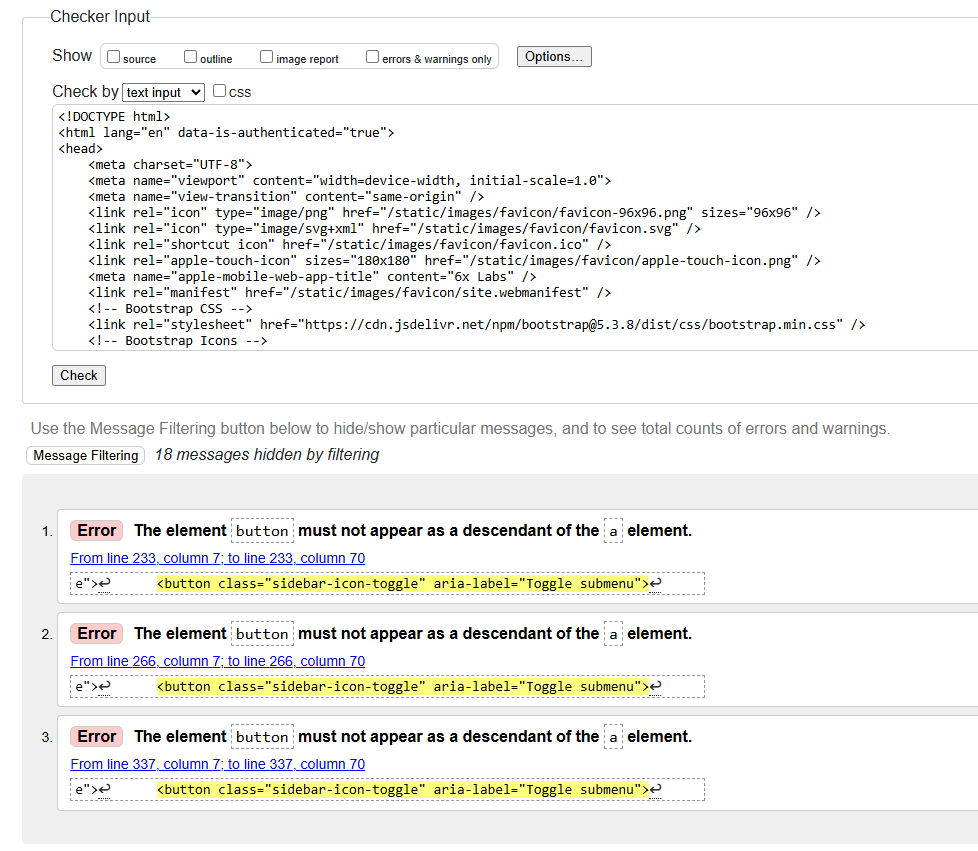
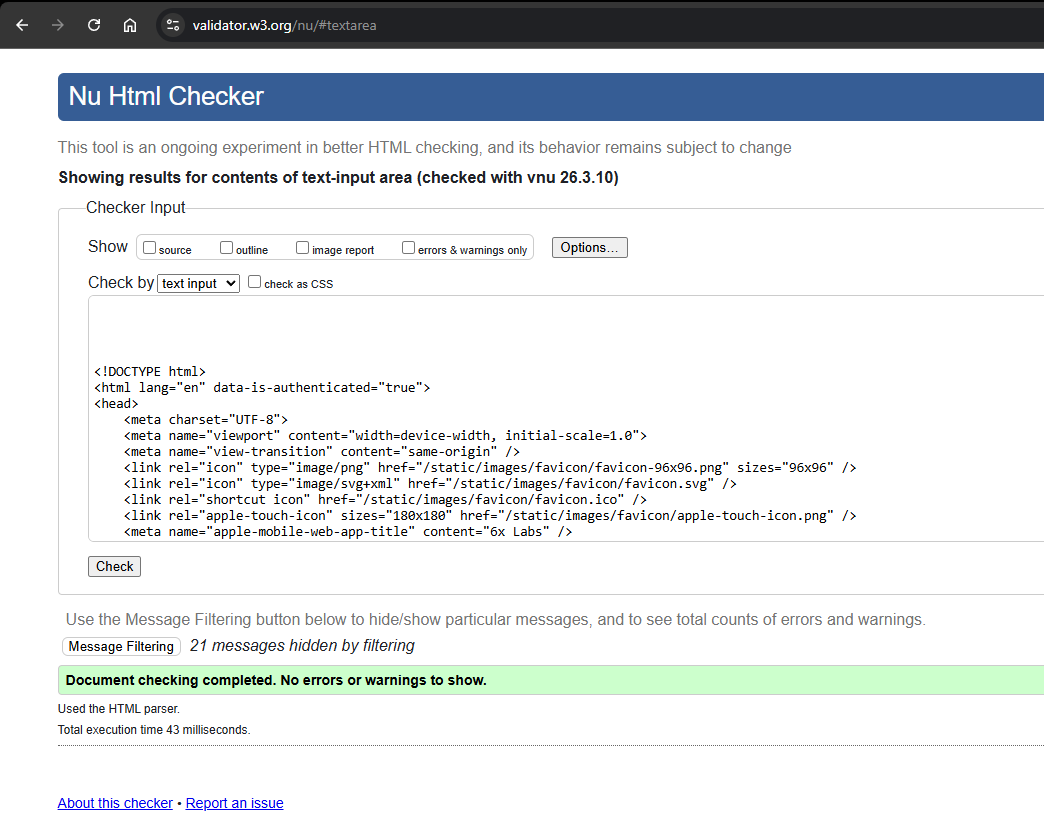
fix: Sorted all HTML CSS errors and updated readme

diff --git a/users/templates/users/wizard_steps/edit_profile/preferences.html b/users/templates/users/wizard_steps/edit_profile/preferences.html
@@ -128,105 +128,13 @@ JS handler: static/js/components/theme-preferences.js
     {% load ui_tags %}
     {% make_tabs 'light:Light:bi-sun,dark:Dark:bi-moon-stars,system:(System):bi-display' as mode_tabs %}
     {% include 'components/nav_pills.html' with tabs=mode_tabs id='mode-selector' variant='text' class='mode-selector' %}
+    <div class="tab-content">
+      <div class="tab-pane" id="tab-light" role="tabpanel" aria-labelledby="mode-selector-light-tab"></div>
+      <div class="tab-pane" id="tab-dark" role="tabpanel" aria-labelledby="mode-selector-dark-tab"></div>
+      <div class="tab-pane" id="tab-system" role="tabpanel" aria-labelledby="mode-selector-system-tab"></div>
+    </div>
     <div class="form-text mt-2">
       System mode automatically matches your device's light/dark setting.
     </div>
   </div>
 </div>
-
-<style>
-  /* Theme Card Styles */
-  .theme-card {
-    cursor: pointer;
-    border: 2px solid var(--bs-border-color);
-    border-radius: 8px;
-    padding: 8px;
-    transition: all 0.2s ease;
-    width: calc(33.333% - 12px);
-    min-width: 90px;
-  }
-
-  .theme-card:hover {
-    border-color: var(--bs-secondary-color);
-    transform: translateY(-2px);
-  }
-
-  .theme-card:focus {
-    outline: none;
-    border-color: var(--primary-color);
-    box-shadow: 0 0 0 3px rgba(var(--bs-primary-rgb), 0.25);
-  }
-
-  .theme-card.selected {
-    border-color: var(--primary-color);
-    background: var(--bs-tertiary-bg);
-  }
-
-  .theme-card.selected::after {
-    content: '\f26b'; /* Bootstrap Icons check-circle-fill */
-    font-family: 'bootstrap-icons';
-    position: absolute;
-    top: 4px;
-    right: 4px;
-    color: var(--primary-color);
-    font-size: 14px;
-  }
-
-  .theme-card {
-    position: relative;
-  }
-
-  /* Theme Preview Mini Layout */
-  .theme-preview {
-    border-radius: 4px;
-    overflow: hidden;
-    height: 50px;
-    display: flex;
-    flex-direction: column;
-  }
-
-  .preview-navbar {
-    height: 8px;
-    width: 100%;
-  }
-
-  .preview-body {
-    flex: 1;
-    display: flex;
-  }
-
-  .preview-sidebar {
-    width: 25%;
-  }
-
-  .preview-content {
-    flex: 1;
-    display: flex;
-    align-items: center;
-    justify-content: center;
-    padding: 4px;
-  }
-
-  .preview-accent {
-    width: 60%;
-    height: 8px;
-    border-radius: 2px;
-  }
-
-  .theme-label {
-    text-align: center;
-    font-size: 0.8rem;
-    margin-top: 6px;
-    color: var(--bs-body-color);
-  }
-
-  /* Mode Selector - uses nav-pills component */
-  .mode-selector.nav-pills { margin-bottom: 0.5rem; }
-
-
-  @media (max-width: 400px) {
-    .theme-card {
-      width: calc(50% - 8px);
-    }
-  }
-</style>

diff --git a/core/templates/core/dashboard.html b/core/templates/core/dashboard.html
@@ -9,15 +9,13 @@
 {% endblock %}
 
 {% block content %}
-  <div class="tab-content">
-    <div class="tab-pane fade show active" id="tab-simple" role="tabpanel">
-        <div class="container-fluid dashboard-container">
+  <div class="container-fluid dashboard-container">
           {# Full-width overview chart - shows plants planted over time #}
           <div class="row">
             <div class="col-12">
               <div class="dash-card dash-card-wide">
                 <div class="dash-card-header">
-                  <h4>Plants Planted Over Time</h4>
+                  <h2>Plants Planted Over Time</h2>
                   <span class="dash-card-subtitle">Annual planting activity</span>
                 </div>
                 <div class="chart-container">
@@ -37,7 +35,7 @@
             <div class="col-lg-4 col-md-6 col-12">
               <div class="dash-card">
                 <div class="dash-card-header">
-                  <h4>Projects</h4>
+                  <h2>Projects</h2>
                   <span class="dash-card-subtitle">Active initiatives</span>
                 </div>
                 <div class="chart-container">
@@ -54,7 +52,7 @@
             <div class="col-lg-4 col-md-6 col-12">
               <div class="dash-card">
                 <div class="dash-card-header">
-                  <h4>CO₂ Sequestered</h4>
+                  <h2>CO₂ Sequestered</h2>
                   <span class="dash-card-subtitle">Total carbon captured</span>
                 </div>
                 <div class="chart-container">
@@ -71,7 +69,7 @@
             <div class="col-lg-4 col-md-12 col-12">
               <div class="dash-card">
                 <div class="dash-card-header">
-                  <h4>Growth Duration</h4>
+                  <h2>Growth Duration</h2>
                   <span class="dash-card-subtitle">Time since first project</span>
                 </div>
                 <div class="chart-container">
@@ -91,7 +89,7 @@
             <div class="col-lg-4 col-md-6 col-12">
               <div class="dash-card">
                 <div class="dash-card-header">
-                  <h4>Total Plants</h4>
+                  <h2>Total Plants</h2>
                   <span class="dash-card-subtitle">Cumulative planting</span>
                 </div>
                 <div class="chart-container">
@@ -105,10 +103,6 @@
               </div>
             </div>
           </div>
-        </div>
-      </div>
-
-    </div>
   </div>
 
 {% endblock %}

diff --git a/projects/templates/projects/project.html b/projects/templates/projects/project.html
@@ -13,7 +13,7 @@
     transition: border-color 0.2s ease;
   }
   .view-scope-toggle:hover {
-    border-color: color-mix(in srgb, var(--bs-border-color) 60%, var(--primary-color) 40%) !important;
+    border-color: var(--primary-color) !important;
   }
   .view-scope-label {
     font-size: 0.875rem;
@@ -125,7 +125,7 @@
     {% include 'components/nav_pills.html' with tabs=project_tabs id='project-nav' %}
   </div>
   <div class="tab-content mt-4">
-    <div class="tab-pane fade show active" id="tab-project-info" role="tabpanel" aria-labelledby="project-info-tab">
+    <div class="tab-pane fade show active" id="tab-project-info" role="tabpanel" aria-labelledby="project-nav-project-info-tab">
       <div class="d-flex flex-column gap-4">
         {% if project %}
             {% for group in card_groups %}
@@ -144,7 +144,7 @@
       </div>
     </div>
 
-    <div class="tab-pane fade" id="tab-project-breakdown" role="tabpanel" aria-labelledby="project-breakdown-tab">
+    <div class="tab-pane fade" id="tab-project-breakdown" role="tabpanel" aria-labelledby="project-nav-project-breakdown-tab">
       <div class="container-fluid dashboard-container">
         {# Data element for JavaScript #}
         <div id="project-breakdown-data"
@@ -178,7 +178,7 @@
           <div class="col-lg-4 col-md-6 col-12">
             <div class="dash-card">
               <div class="dash-card-header">
-                <h4>CO₂ Sequestered</h4>
+                <h3>CO₂ Sequestered</h3>
                 <span class="dash-card-subtitle">Total carbon captured</span>
               </div>
               <div class="chart-container">
@@ -190,7 +190,7 @@
           <div class="col-lg-4 col-md-6 col-12">
             <div class="dash-card">
               <div class="dash-card-header">
-                <h4>Project Area</h4>
+                <h3>Project Area</h3>
                 <span class="dash-card-subtitle">Total site coverage</span>
               </div>
               <div class="chart-container">
@@ -202,7 +202,7 @@
           <div class="col-lg-4 col-md-6 col-12">
             <div class="dash-card">
               <div class="dash-card-header">
-                <h4>Total Plants</h4>
+                <h3>Total Plants</h3>
                 <span class="dash-card-subtitle">Plants in this project</span>
               </div>
               <div class="chart-container">

diff --git a/templates/account/user_settings_modal.html b/templates/account/user_settings_modal.html
@@ -164,34 +164,14 @@
     {% load ui_tags %}
     {% make_tabs 'light:Light:bi-sun,dark:Dark:bi-moon-stars,system:(System):bi-display' as mode_tabs %}
     {% include 'components/nav_pills.html' with tabs=mode_tabs id='mode-selector' variant='text' class='mode-selector' %}
+    <div class="tab-content">
+      <div class="tab-pane" id="tab-light" role="tabpanel" aria-labelledby="mode-selector-light-tab"></div>
+      <div class="tab-pane" id="tab-dark" role="tabpanel" aria-labelledby="mode-selector-dark-tab"></div>
+      <div class="tab-pane" id="tab-system" role="tabpanel" aria-labelledby="mode-selector-system-tab"></div>
+    </div>
     <div class="form-text mt-2 mb-3">
       System mode automatically matches your device's light/dark setting.
     </div>
   </div>
-
-  <style>
-  .theme-card {
-    cursor: pointer;
-    border: 2px solid var(--bs-border-color);
-    border-radius: 8px;
-    padding: 8px;
-    transition: all 0.2s ease;
-    position: relative;
-    width: calc(33.333% - 12px);
-    min-width: 80px;
-  }
-  .theme-card:hover { border-color: var(--bs-secondary-color); transform: translateY(-2px); }
-  .theme-card:focus { outline: none; border-color: var(--primary-color); box-shadow: 0 0 0 3px rgba(var(--bs-primary-rgb), 0.25); }
-  .theme-card.selected { border-color: var(--primary-color); background: var(--bs-tertiary-bg); }
-  .theme-card.selected::after { content: '\f26b'; font-family: 'bootstrap-icons'; position: absolute; top: 4px; right: 4px; color: var(--primary-color); font-size: 14px; }
-  .theme-preview { border-radius: 4px; overflow: hidden; height: 50px; display: flex; flex-direction: column; }
-  .preview-navbar { height: 8px; width: 100%; }
-  .preview-body { flex: 1; display: flex; }
-  .preview-sidebar { width: 25%; }
-  .preview-content { flex: 1; display: flex; align-items: center; justify-content: center; padding: 4px; }
-  .preview-accent { width: 60%; height: 8px; border-radius: 2px; }
-  .theme-label { text-align: center; font-size: 0.8rem; margin-top: 6px; color: var(--bs-body-color); }
-  .mode-selector.nav-pills { margin-bottom: 0.5rem; }
-</style>
 {% endblock %}
 

diff --git a/static/css/components/settings-modal.css b/static/css/components/settings-modal.css
@@ -292,6 +292,31 @@
 }
 
 
+/* ---- Theme selector (user_settings_modal) ---- */
+.theme-card {
+  cursor: pointer;
+  border: 2px solid var(--bs-border-color);
+  border-radius: 8px;
+  padding: 8px;
+  transition: all 0.2s ease;
+  position: relative;
+  width: calc(33.333% - 12px);
+  min-width: 80px;
+}
+.theme-card:hover { border-color: var(--bs-secondary-color); transform: translateY(-2px); }
+.theme-card:focus { outline: none; border-color: var(--primary-color); box-shadow: 0 0 0 3px rgba(var(--bs-primary-rgb), 0.25); }
+.theme-card.selected { border-color: var(--primary-color); background: var(--bs-tertiary-bg); }
+.theme-card.selected::after { content: '\f26b'; font-family: 'bootstrap-icons'; position: absolute; top: 4px; right: 4px; color: var(--primary-color); font-size: 14px; }
+.theme-preview { border-radius: 4px; overflow: hidden; height: 50px; display: flex; flex-direction: column; }
+.preview-navbar { height: 8px; width: 100%; }
+.preview-body { flex: 1; display: flex; }
+.preview-sidebar { width: 25%; }
+.preview-content { flex: 1; display: flex; align-items: center; justify-content: center; padding: 4px; }
+.preview-accent { width: 60%; height: 8px; border-radius: 2px; }
+.theme-label { text-align: center; font-size: 0.8rem; margin-top: 6px; color: var(--bs-body-color); }
+.mode-selector.nav-pills { margin-bottom: 0.5rem; }
+
+
 /* ---- Responsive ---- */
 @media (max-width: 576px) {
   .settings-modal .modal-content {

diff --git a/static/css/components/wizard-modal.css b/static/css/components/wizard-modal.css
@@ -301,3 +301,31 @@
   }
 }
 
+
+/* ---- Theme selector (preferences wizard step) ---- */
+.theme-card {
+  cursor: pointer;
+  border: 2px solid var(--bs-border-color);
+  border-radius: 8px;
+  padding: 8px;
+  transition: all 0.2s ease;
+  position: relative;
+  width: calc(33.333% - 12px);
+  min-width: 80px;
+}
+.theme-card:hover { border-color: var(--bs-secondary-color); transform: translateY(-2px); }
+.theme-card:focus { outline: none; border-color: var(--primary-color); box-shadow: 0 0 0 3px rgba(var(--bs-primary-rgb), 0.25); }
+.theme-card.selected { border-color: var(--primary-color); background: var(--bs-tertiary-bg); }
+.theme-card.selected::after { content: '\f26b'; font-family: 'bootstrap-icons'; position: absolute; top: 4px; right: 4px; color: var(--primary-color); font-size: 14px; }
+.theme-preview { border-radius: 4px; overflow: hidden; height: 50px; display: flex; flex-direction: column; }
+.preview-navbar { height: 8px; width: 100%; }
+.preview-body { flex: 1; display: flex; }
+.preview-sidebar { width: 25%; }
+.preview-content { flex: 1; display: flex; align-items: center; justify-content: center; padding: 4px; }
+.preview-accent { width: 60%; height: 8px; border-radius: 2px; }
+.theme-label { text-align: center; font-size: 0.8rem; margin-top: 6px; color: var(--bs-body-color); }
+.mode-selector.nav-pills { margin-bottom: 0.5rem; }
+
+@media (max-width: 400px) {
+  .theme-card { width: calc(50% - 8px); }
+}

diff --git a/templates/base.html b/templates/base.html
@@ -49,7 +49,7 @@
             <div class="container">
                 <header class="d-flex justify-content-between align-items-center ps-2 mb-4">
                     <!-- Mobile Menu Button -->
-                    <span class="d-flex align-items-center gap-2">
+                    <div class="d-flex align-items-center gap-2">
                         <button
                         class="mobile-menu-btn"
                         data-bs-toggle="offcanvas"
@@ -59,7 +59,7 @@
                         <i class="bi bi-chevron-left"></i>
                         </button>
                         <h1 class="mb-0">{% block page_title %}Title{% endblock %}</h1>
-                </span>
+                    </div>
                     {% block header_contents %}
                         <!-- Default content (or leave empty) -->
                     {% endblock header_contents %}

diff --git a/static/css/styles.css b/static/css/styles.css
@@ -9,7 +9,7 @@
   /* Shared horizontal inset used by both the offcanvas header and navbar-left */
   --header-inset: 1.25rem;
   --font-sans: "Segoe UI", -apple-system, BlinkMacSystemFont, "Roboto", "Helvetica Neue", Arial, sans-serif;
-  --font-size: var(--font-size);
+  --font-size: 1rem;
 }
 
 /* ===== THEME SYSTEM ===== */
@@ -380,23 +380,6 @@ svg {
   transition: transform 0.3s ease;
 }
 
-/* ===== VIEW TRANSITIONS API ===== */
-/* Smooth page transitions to prevent glitching/popping */
-
-@view-transition {
-  navigation: auto;
-}
-
-/* Smooth cross-fade transition */
-::view-transition-old(root),
-::view-transition-new(root) {
-  animation-duration: 0.2s;
-  animation-timing-function: ease-in-out;
-}
-
-::view-transition-group(root) {
-  animation-duration: 0.2s;
-}
 
 /* Utility: Primary background (used for avatar fallback, badges, etc.) */
 .bg-primary {

diff --git a/README.md b/README.md
@@ -426,12 +426,12 @@ Alongside the built-in Bootstrap responsive CSS, Chrome dev tools were used freq
 
 ### HTML
 
-3 errors were returned during the HTML check. After investigation these were triggered due to my custom nav-item logic within my sidebar menu. This is due to the way children are nested within the nav-items. This will be rectified in future updates.
+0 errors were returned after checking the dashboard and project pages source HTML with the [**HTML**](https://validator.w3.org/) checker.
 <img alt="HTML validation results" src="./assets/HTMLCheck.PNG">
 
 
 ### CSS
-1 error was found during the official CSS error check. This is due to newer CSS being used. This will be fixed in future updates as the CSS functions visually currently for the MVP.
+0 CSS errors were found in the css files using the   [**W3C**](https://jigsaw.w3.org/css-validator/#validate_by_uri) CSS validator.
 <img alt="CSS validation results" src="./assets/CSSError.PNG">
 
 ### Python (PEP 8)
